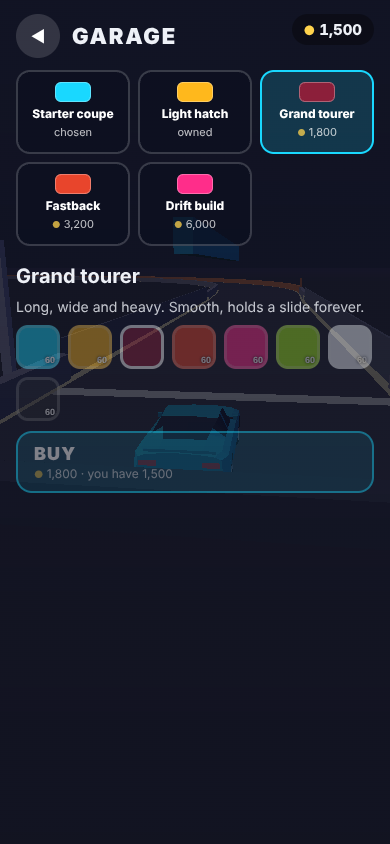
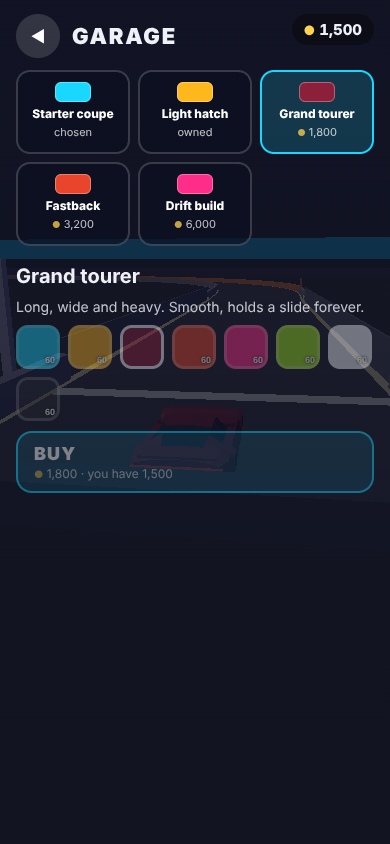
crazygames loop: the gantry beam across the road, screenshots in three viewports, the unlock check passes
The start gantry's beam ran along the road and read as a post from
behind; it is rotated by the heading now. Screenshots of every screen in
1280x720, 390x844 and 844x390; the drive shot holds the car two seconds
so the ghost is in view. The car session's vanishing rear wheel shows in
the free drift shot and is noted, not chased.

Changed region(s): [[0.3385, 0.4621, 0.6154, 0.5853], [0.0, 0.2773, 0.5538, 0.3081], [0.6154, 0.2773, 1.0, 0.3081]]

diff --git a/crazygames/game/test/loop/probes.js b/crazygames/game/test/loop/probes.js
@@ -280,10 +280,14 @@ if (run('shots')) {
     await shot('garage', async () => { await side.page.evaluate(() => { window.__loop.action('garage'); window.__loop.action('pick-car', 'tourer'); }); });
     await shot('countdown', async () => { await side.page.evaluate(() => { window.__loop.action('play-career', '0'); window.__feel.draw = false; window.__clock = 1000; }); await L.runFrames(side.page, 70); });
     await shot('drive', async () => {
-      // a ghost first, then into the second run with a slightly different
-      // driver (so the ghost is not hidden inside the car), to a frame mid drift
+      // a ghost first, then the second run held on the line for two seconds
+      // (DRIFT with no steering) so the ghost is ahead and in view, then the
+      // driver takes over, to a frame mid drift
       await L.beginRun(side.page, 'career', 0); await L.driveToResults(side.page, RUN_BUDGET);
-      await L.beginRun(side.page, 'again', null, { drift: '*', gain: 0.85 });
+      await L.beginRun(side.page, 'again', null, null);
+      await side.page.evaluate(() => { window.__feel.setDriver(null); window.__feel.inject = { steer: 0, throttle: 0, brake: 0, handbrake: 1 }; });
+      await L.runFrames(side.page, 120);
+      await side.page.evaluate(() => { window.__feel.inject = null; window.__feel.setDriver({ drift: '*' }); });
       let best = null;
       for (let k = 0; k < 40 && !best; k++) { const fr = await L.runFrames(side.page, 30, L.COLLECT); for (const f of fr) if (f.angle > 28 && f.v > 12 && f.state === 'drive') { best = f; break; } }
     });

diff --git a/crazygames/game/src/render/scene.js b/crazygames/game/src/render/scene.js
@@ -156,7 +156,9 @@ export function createScene(canvas, opts) {
     const postMat = new THREE.MeshLambertMaterial({ color: LOOK.GANTRY });
     for (const side of [1, -1]) { const post = new THREE.Mesh(new THREE.BoxGeometry(p, h, p), postMat); post.position.set(s.x + lx * reach * side, h / 2, s.z + lz * reach * side); g.add(post); }
     const beam = new THREE.Mesh(new THREE.BoxGeometry(reach * 2 + p, 0.6, p), new THREE.MeshLambertMaterial({ color: beamColour }));
-    beam.position.set(s.x, h - 0.3, s.z); beam.rotation.y = -s.heading + Math.PI / 2;
+    /* the box runs along x; rotated by the heading about y its x axis is
+       (cos h, -sin h), which is the track's left vector (-cos h, sin h) reversed */
+    beam.position.set(s.x, h - 0.3, s.z); beam.rotation.y = s.heading;
     g.add(beam);
     return g;
   }

diff --git a/crazygames/review/loop/REPORT.md b/crazygames/review/loop/REPORT.md
@@ -250,6 +250,7 @@ the car park with the touch pad showing).
   drive with no countdown or results, so the feel probes run unchanged.
 - `package.json` and `tools/serve.js` are outside the brief's folders, so
   the loop probes run with `node game/test/loop/probes.js`.
-- The car session's note: a rear wheel vanishing after a sliding frame in
-  software WebGL 2 was not seen in the screenshots here, and was not
-  looked for.
+- The car session's note holds here too: in `shots/free-1280x720.png`
+  the starter's left rear wheel is missing after a slide, on the
+  sandbox's software WebGL 2. Noted, not chased, as the car session
+  asked; untested on a real GPU.
